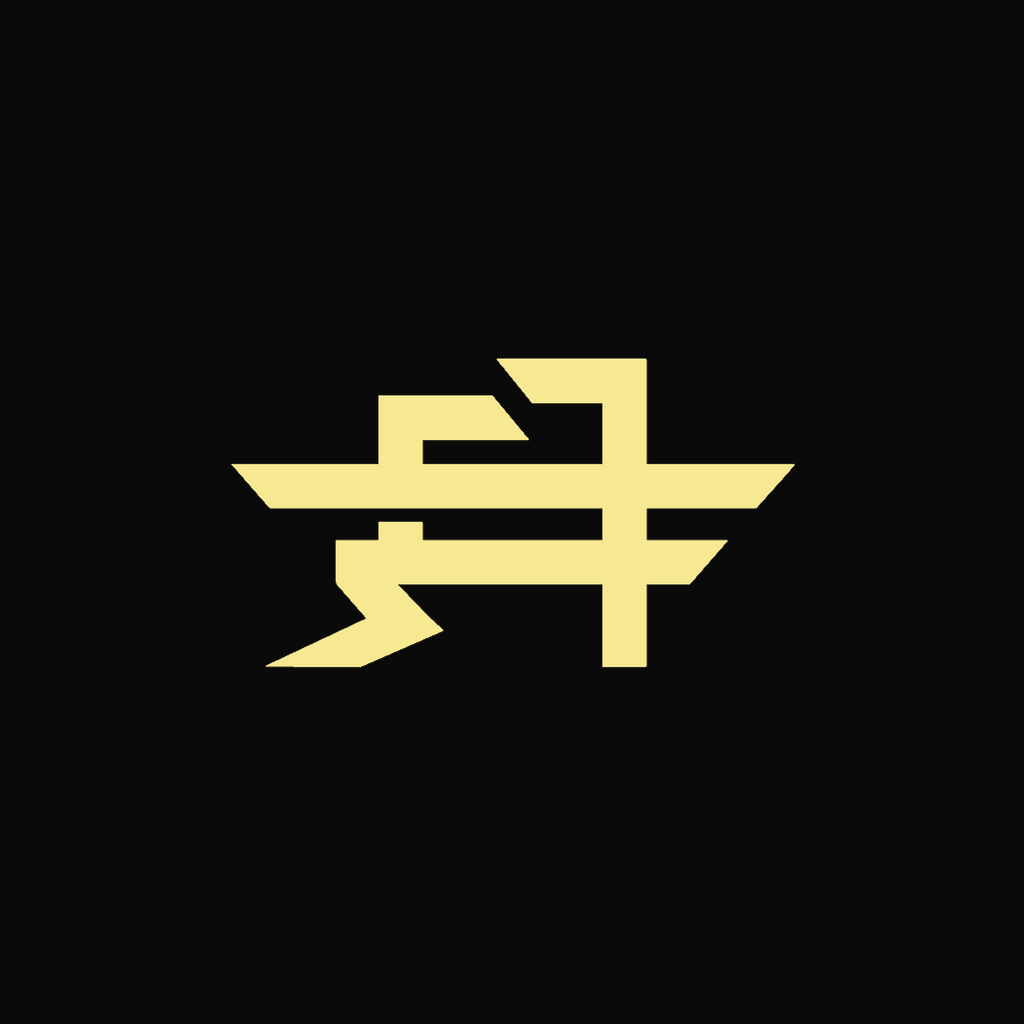
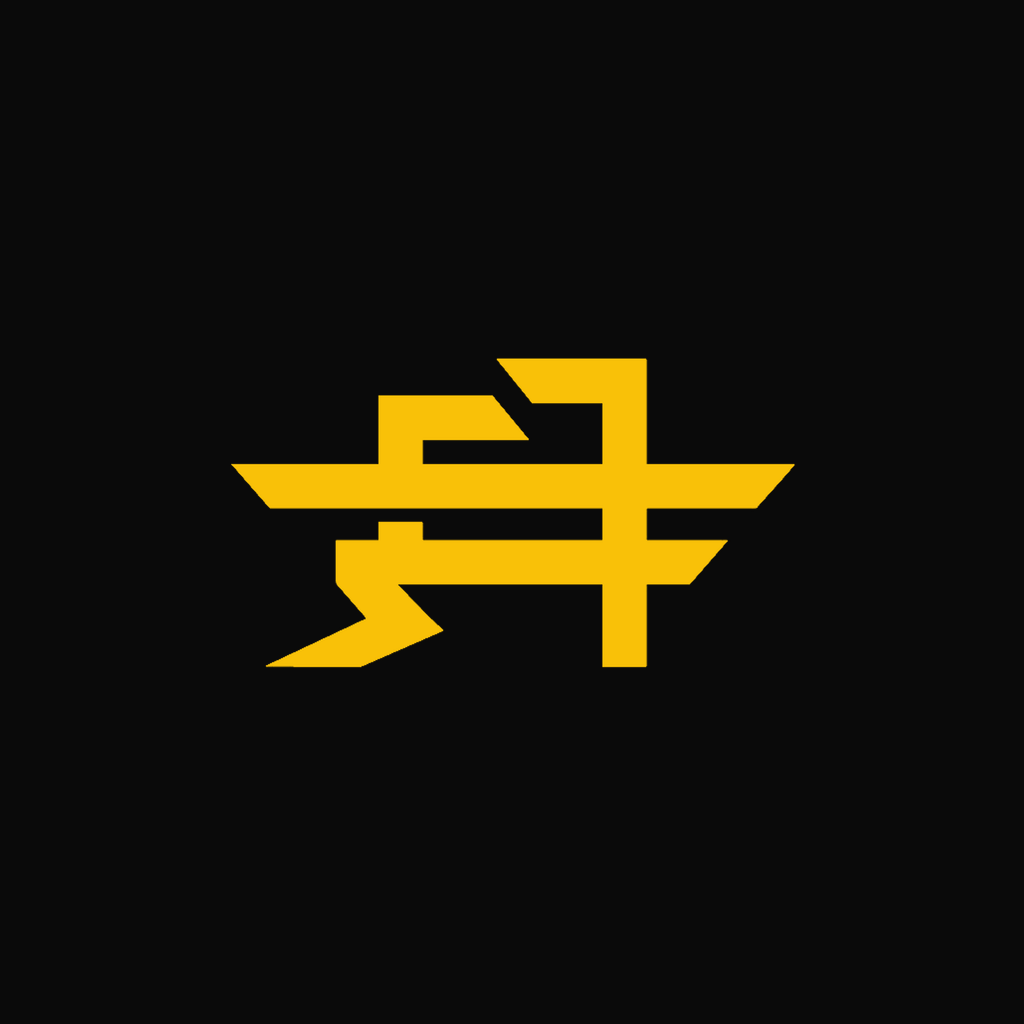
fix: restore acid yellow and enrich ticket emails with event details
Revert brand accent to #f9c108 and include full event info (when, doors,
lineup, about, location) next to the QR in ticket emails.

Changed region(s): [[0.2188, 0.3438, 0.7812, 0.6562]]

diff --git a/lib/email/templates.ts b/lib/email/templates.ts
@@ -312,6 +312,19 @@ export function accountRejectedEmail(opts: {
   };
 }
 
+export type TicketEmailEventInfo = {
+  title: string;
+  dayLabel?: string;
+  dateLabel?: string;
+  doorsOpen?: string;
+  lineup?: string;
+  tag?: string;
+  about?: string;
+  eventUrl?: string;
+  mapsUrl?: string;
+  coordsLabel?: string;
+};
+
 export function ticketPurchaseEmail(opts: {
   ticketId: string;
   productName: string;
@@ -323,18 +336,80 @@ export function ticketPurchaseEmail(opts: {
   scanLink: string;
   qrCid: string;
   qrDownloadUrl: string;
+  event?: TicketEmailEventInfo | null;
 }): { subject: string; html: string; text: string } {
   const holder = escapeHtml(`${opts.holderFirstName} ${opts.holderLastName}`);
   const tier = opts.tierLabel ? ` · ${escapeHtml(opts.tierLabel)}` : '';
   const qrCid = escapeHtml(opts.qrCid);
   const qrDownloadUrl = escapeHtml(opts.qrDownloadUrl);
+  const event = opts.event;
+  const eventTitle = escapeHtml(event?.title || opts.productName);
+  const whenParts = [event?.dayLabel, event?.dateLabel]
+    .filter(Boolean)
+    .map((v) => escapeHtml(String(v)))
+    .join(' · ');
+  const doorsLabel = event?.doorsOpen?.trim() ? escapeHtml(event.doorsOpen.trim()) : '';
+  const lineup = event?.lineup?.trim() ? escapeHtml(event.lineup.trim()) : '';
+  const tag = event?.tag?.trim() ? escapeHtml(event.tag.trim()) : '';
+  const about = event?.about?.trim() ? escapeHtml(event.about.trim()) : '';
+  const eventUrl = event?.eventUrl ? escapeHtml(event.eventUrl) : '';
+  const mapsUrl = event?.mapsUrl ? escapeHtml(event.mapsUrl) : '';
+  const coords = event?.coordsLabel ? escapeHtml(event.coordsLabel) : '';
+
+  const eventRows: string[] = [];
+  if (whenParts) {
+    eventRows.push(
+      `<p style="margin:0 0 6px"><strong style="color:${EMAIL_ACID}">When</strong><br />${whenParts}${doorsLabel ? `<br />Doors ${doorsLabel}` : ''}</p>`,
+    );
+  } else if (doorsLabel) {
+    eventRows.push(
+      `<p style="margin:0 0 6px"><strong style="color:${EMAIL_ACID}">Doors</strong><br />${doorsLabel}</p>`,
+    );
+  }
+  if (lineup) {
+    eventRows.push(
+      `<p style="margin:0 0 6px"><strong style="color:${EMAIL_ACID}">Lineup</strong><br />${lineup}</p>`,
+    );
+  }
+  if (tag) {
+    eventRows.push(
+      `<p style="margin:0 0 6px"><strong style="color:${EMAIL_ACID}">Stage / note</strong><br />${tag}</p>`,
+    );
+  }
+  if (about) {
+    eventRows.push(
+      `<p style="margin:0 0 6px"><strong style="color:${EMAIL_ACID}">About</strong><br />${about}</p>`,
+    );
+  }
+  if (coords || mapsUrl) {
+    const pinLine = mapsUrl
+      ? `<a href="${mapsUrl}" style="color:${EMAIL_ACID}">${coords || 'Open in Maps'}</a>`
+      : coords;
+    eventRows.push(
+      `<p style="margin:0 0 6px"><strong style="color:${EMAIL_ACID}">Location</strong><br />Sabagiro · Tbilisi${pinLine ? `<br />${pinLine}` : ''}</p>`,
+    );
+  }
+  if (eventUrl) {
+    eventRows.push(
+      `<p style="margin:0"><a href="${eventUrl}" style="color:${EMAIL_ACID}">Event page →</a></p>`,
+    );
+  }
+
+  const eventBlock = eventRows.length
+    ? `<div style="margin:0 0 20px;padding:14px 16px;border:1px solid ${EMAIL_MUTED};background:#141414">
+        <p style="margin:0 0 10px;font-weight:700;letter-spacing:0.08em;color:${EMAIL_ACID}">${eventTitle}</p>
+        ${eventRows.join('')}
+      </div>`
+    : '';
+
   const bodyHtml = `
     <!-- sabagiro-ticket:${escapeHtml(opts.ticketId)} -->
-    <p style="margin:0 0 16px">Your ticket for <strong style="color:${EMAIL_ACID}">${escapeHtml(opts.productName)}</strong> is below.</p>
+    <p style="margin:0 0 16px">Your ticket for <strong style="color:${EMAIL_ACID}">${eventTitle}</strong> is below.</p>
+    ${eventBlock}
     <p style="margin:0 0 20px;line-height:0">
       <img
         src="cid:${qrCid}"
-        alt="Ticket QR code for ${escapeHtml(opts.productName)}"
+        alt="Ticket QR code for ${eventTitle}"
         width="280"
         height="280"
         style="display:block;width:280px;max-width:100%;height:auto;border:4px solid ${EMAIL_ACID};background:#ffffff"
@@ -347,14 +422,30 @@ export function ticketPurchaseEmail(opts: {
     </p>
     <p style="font-size:14px;color:${EMAIL_MUTED};margin:0">Show this QR at the door. A copy is always in <a href="${escapeHtml(siteUrl('/account'))}" style="color:${EMAIL_ACID}">your account</a>. PNG also attached to this email.</p>
   `;
+
+  const textEvent = [
+    event?.title || opts.productName,
+    whenParts ? `When: ${whenParts}` : '',
+    event?.doorsOpen ? `Doors: ${event.doorsOpen}` : '',
+    event?.lineup ? `Lineup: ${event.lineup}` : '',
+    event?.tag ? `Note: ${event.tag}` : '',
+    event?.about ? `About: ${event.about}` : '',
+    'Location: Sabagiro · Tbilisi',
+    event?.coordsLabel || '',
+    event?.mapsUrl || '',
+    event?.eventUrl || '',
+  ]
+    .filter(Boolean)
+    .join('\n');
+
   return {
-    subject: `Sabagiro ticket — ${opts.productName}`,
+    subject: `Sabagiro ticket — ${event?.title || opts.productName}`,
     html: renderEmailLayout({
-      preheader: `Ticket for ${opts.productName} — ${opts.holderFirstName}`,
+      preheader: `Ticket for ${event?.title || opts.productName} — ${opts.holderFirstName}`,
       title: 'Your ticket',
       bodyHtml,
     }),
-    text: `Ticket: ${opts.productName}. Holder: ${opts.holderFirstName} ${opts.holderLastName}. Scan: ${opts.scanLink}. Download QR: ${opts.qrDownloadUrl}`,
+    text: `${textEvent}\n\nHolder: ${opts.holderFirstName} ${opts.holderLastName}\nScan: ${opts.scanLink}\nDownload QR: ${opts.qrDownloadUrl}`,
   };
 }
 

diff --git a/lib/email/send.ts b/lib/email/send.ts
@@ -1,7 +1,9 @@
 import type { Ticket } from '@/generated/prisma/client';
+import { CLUB_COORDS_LABEL, CLUB_MAPS_URL } from '@/lib/club-location';
 import { sendEmail, type SendEmailResult } from '@/lib/email/client';
 import type { ContactTopic } from '@/lib/contact-topic';
 import { getContactInboxEmailsForTopic } from '@/lib/contact-inbox';
+import { prisma } from '@/lib/db';
 import {
   accountPendingEmail,
   accountRejectedEmail,
@@ -19,10 +21,40 @@ import {
   profileEmailChangedEmail,
   ticketPurchaseEmail,
   welcomeRegistrationEmail,
+  type TicketEmailEventInfo,
 } from '@/lib/email/templates';
 import { TICKET_QR_CID } from '@/lib/email/theme';
 import { qrPngBase64 } from '@/lib/qr';
 import { siteUrl } from '@/lib/site-url';
+
+async function loadTicketEmailEvent(productSlug: string): Promise<TicketEmailEventInfo | null> {
+  const event = await prisma.clubEvent.findUnique({
+    where: { slug: productSlug },
+    select: {
+      slug: true,
+      title: true,
+      about: true,
+      lineup: true,
+      tag: true,
+      dayLabel: true,
+      dateLabel: true,
+      doorsOpen: true,
+    },
+  });
+  if (!event) return null;
+  return {
+    title: event.title,
+    dayLabel: event.dayLabel,
+    dateLabel: event.dateLabel,
+    doorsOpen: event.doorsOpen,
+    lineup: event.lineup,
+    tag: event.tag,
+    about: event.about,
+    eventUrl: siteUrl(`/events/${event.slug}`),
+    mapsUrl: CLUB_MAPS_URL,
+    coordsLabel: CLUB_COORDS_LABEL,
+  };
+}
 
 export function sendWelcomeRegistrationEmail(opts: {
   to: string;
@@ -120,7 +152,10 @@ export async function sendTicketEmail(payload: {
   scanLink: string;
 }): Promise<SendEmailResult> {
   const { ticket, scanLink, to } = payload;
-  const qrContent = await qrPngBase64(ticket.qrToken);
+  const [qrContent, event] = await Promise.all([
+    qrPngBase64(ticket.qrToken),
+    loadTicketEmailEvent(ticket.productSlug),
+  ]);
   const qrFilename = `sabagiro-ticket-${ticket.id.slice(-8)}.png`;
   const qrDownloadUrl = siteUrl(`/api/scan/${ticket.qrToken}/qr?download=1`);
   const msg = ticketPurchaseEmail({
@@ -134,6 +169,7 @@ export async function sendTicketEmail(payload: {
     scanLink,
     qrCid: TICKET_QR_CID,
     qrDownloadUrl,
+    event,
   });
   return sendEmail({
     to,

diff --git a/public/index.full.html b/public/index.full.html
@@ -45,8 +45,8 @@
         --black: #0a0a0a;
         --concrete: #b0a89a;
         --concrete-light: #d4ccc4;
-        --acid: #f7e892;
-        --acid-hot: #faf0b8;
+        --acid: #f9c108;
+        --acid-hot: #fbc007;
         --neon-cyan: #00f0ff;
         --neon-magenta: #ff0044;
         --neon-violet: #cc00ff;
@@ -1912,7 +1912,7 @@
         if (reduceMotion || !canvas) return;
 
         var ctx = canvas.getContext('2d', { willReadFrequently: true });
-        var palette = ['#f7e892', '#faf0b8', '#00f0ff', '#ff0044', '#cc00ff', '#ff9900', '#fff4d6', '#f7e892'];
+        var palette = ['#f9c108', '#fbc007', '#00f0ff', '#ff0044', '#cc00ff', '#ff9900', '#fff4d6', '#f9c108'];
         var strips = [];
         var cell = 6;
         var frame = 0;

diff --git a/public/index.html b/public/index.html
@@ -48,8 +48,8 @@
         --black: #0a0a0a;
         --concrete: #b0a89a;
         --concrete-light: #d4ccc4;
-        --acid: #f7e892;
-        --acid-hot: #faf0b8;
+        --acid: #f9c108;
+        --acid-hot: #fbc007;
         --neon-cyan: #00f0ff;
         --neon-magenta: #ff0044;
         --neon-violet: #cc00ff;
@@ -1915,7 +1915,7 @@
         if (reduceMotion || !canvas) return;
 
         var ctx = canvas.getContext('2d', { willReadFrequently: true });
-        var palette = ['#f7e892', '#faf0b8', '#00f0ff', '#ff0044', '#cc00ff', '#ff9900', '#fff4d6', '#f7e892'];
+        var palette = ['#f9c108', '#fbc007', '#00f0ff', '#ff0044', '#cc00ff', '#ff9900', '#fff4d6', '#f9c108'];
         var strips = [];
         var cell = 6;
         var frame = 0;

diff --git a/components/ForgotPasswordForm.tsx b/components/ForgotPasswordForm.tsx
@@ -45,7 +45,7 @@ export function ForgotPasswordForm() {
         <input name="email" type="email" required autoComplete="email" />
       </label>
       {error ? <p className="form-error">{error}</p> : null}
-      {message ? <p className="form-foot" style={{ color: '#f7e892' }}>{message}</p> : null}
+      {message ? <p className="form-foot" style={{ color: '#f9c108' }}>{message}</p> : null}
       <button type="submit" className="btn" disabled={loading}>
         {loading ? '…' : 'SEND RESET LINK'}
       </button>

diff --git a/components/FreeTicketGenerator.tsx b/components/FreeTicketGenerator.tsx
@@ -126,7 +126,7 @@ export function FreeTicketGenerator({
           </Link>
         </p>
       ) : null}
-      <p className="page-lead" style={{ marginBottom: '1rem', color: 'var(--acid, #f7e892)' }}>
+      <p className="page-lead" style={{ marginBottom: '1rem', color: 'var(--acid, #f9c108)' }}>
         {selectedSlug
           ? `Remaining for selected event: ${remainingForSelected} / ${quota}`
           : `Remaining: ${quota} / ${quota}`}

diff --git a/components/AuthForm.tsx b/components/AuthForm.tsx
@@ -189,7 +189,7 @@ export function AuthForm({ mode }: { mode: Mode }) {
         </p>
       ) : null}
       {passwordResetDone && mode === 'login' ? (
-        <p className="form-foot" style={{ color: '#f7e892' }}>
+        <p className="form-foot" style={{ color: '#f9c108' }}>
           Password updated. You can log in now.
         </p>
       ) : null}

diff --git a/ios/Sabagiro/SabagiroTheme.swift b/ios/Sabagiro/SabagiroTheme.swift
@@ -1,7 +1,7 @@
 import SwiftUI
 
 enum SabagiroTheme {
-  /// Site `--acid` (#f7e892)
-  static let acid = Color(red: 247 / 255, green: 232 / 255, blue: 146 / 255)
+  /// Site `--acid` (#f9c108)
+  static let acid = Color(red: 249 / 255, green: 193 / 255, blue: 8 / 255)
   static let background = Color(red: 0.04, green: 0.04, blue: 0.04)
 }

diff --git a/lib/email/theme.ts b/lib/email/theme.ts
@@ -1,5 +1,5 @@
 /** Sabagiro site `--acid` — keep emails in sync with globals.css */
-export const EMAIL_ACID = '#f7e892';
+export const EMAIL_ACID = '#f9c108';
 export const EMAIL_BG = '#0a0a0a';
 export const EMAIL_CARD = '#111111';
 export const EMAIL_BORDER = '#2a2a2a';

diff --git a/app/globals.css b/app/globals.css
@@ -10,8 +10,8 @@
   --black: #0a0a0a;
   --concrete: #b0a89a;
   --concrete-light: #d4ccc4;
-  --acid: #f7e892;
-  --acid-hot: #faf0b8;
+  --acid: #f9c108;
+  --acid-hot: #fbc007;
   --neon-cyan: #00f0ff;
   --neon-magenta: #ff0044;
   --status-verified: #22c55e;

diff --git a/lib/products.ts b/lib/products.ts
@@ -33,7 +33,7 @@ const merchProducts: Product[] = [
     description: 'Heavy cotton · Screen print logo · Unisex',
     priceGel: 65,
     type: 'merch',
-    accent: '#f7e892',
+    accent: '#f9c108',
     tag: 'MERCH',
   },
   {

diff --git a/components/AdminEventsPanel.tsx b/components/AdminEventsPanel.tsx
@@ -51,7 +51,7 @@ const defaultFormBase = {
   dateLabel: '',
   eventDate: '',
   doorsOpen: '',
-  accent: '#f7e892',
+  accent: '#f9c108',
   priceGel: 45,
   isFreeEntry: false,
   isFeatured: false,
